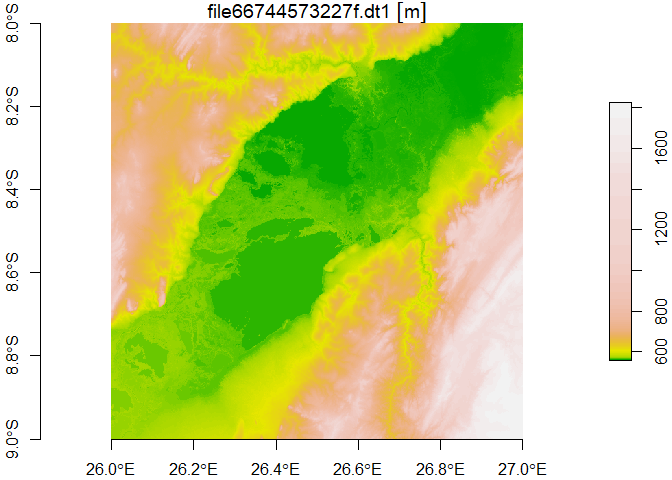
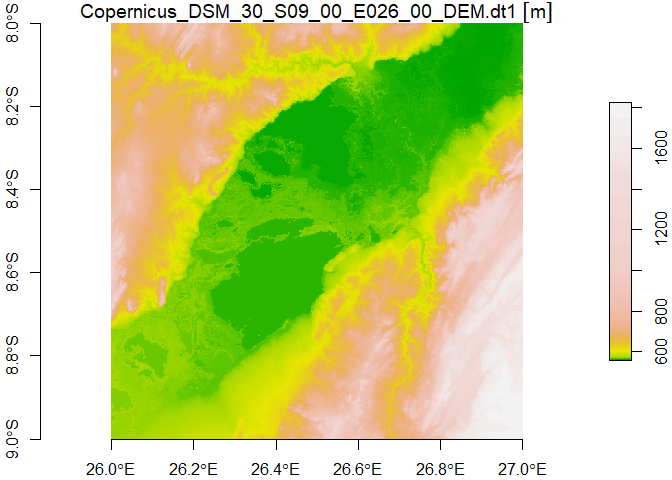
Downloading via OData now seems to be working

Changed region(s): [[0.125, 0.0, 0.8438, 0.0625]]

diff --git a/README.md b/README.md
@@ -97,17 +97,17 @@ if (dse_has_s3_secret()) {
 ## Downloading Using OData API
 
 ``` r
-fn <- tempfile(fileext = ".dt1")
 
-dse_odata_download_path(
+response <-
+  dse_odata_download_path(
   product     = "2f497806-0101-5eea-83fa-c8f68bc56b0c",
   node_path   = paste(
     "DEM1_SAR_DTE_90_20101213T034716_20130408T035028_ADS_000000_5033.DEM",
     "Copernicus_DSM_30_S09_00_E026_00", "DEM",
     "Copernicus_DSM_30_S09_00_E026_00_DEM.dt1", sep = "/"),
-  destination = fn)
+  destination = tempdir())
 
-tile_odata <- read_stars(fn)
+tile_odata <- read_stars(response$body)
 plot(tile_odata, col = terrain.colors(100), axes = TRUE)
 ```
 
